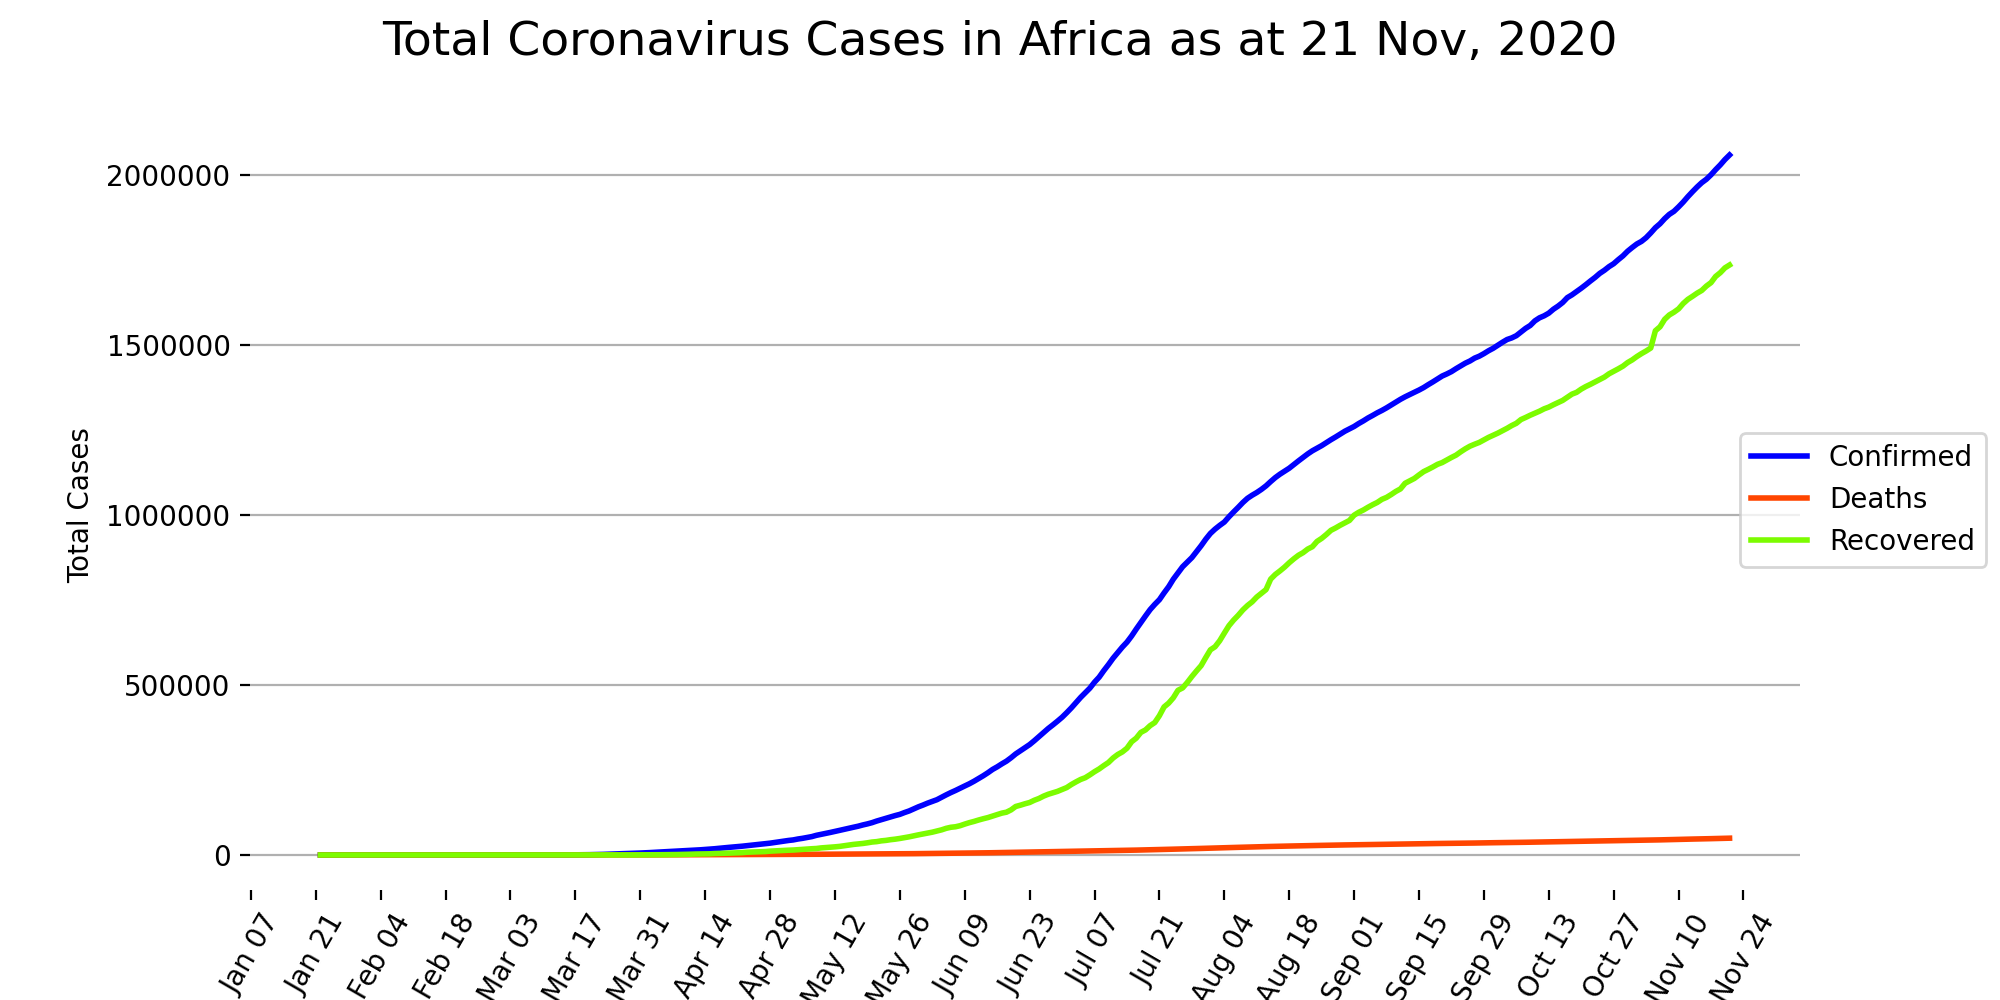
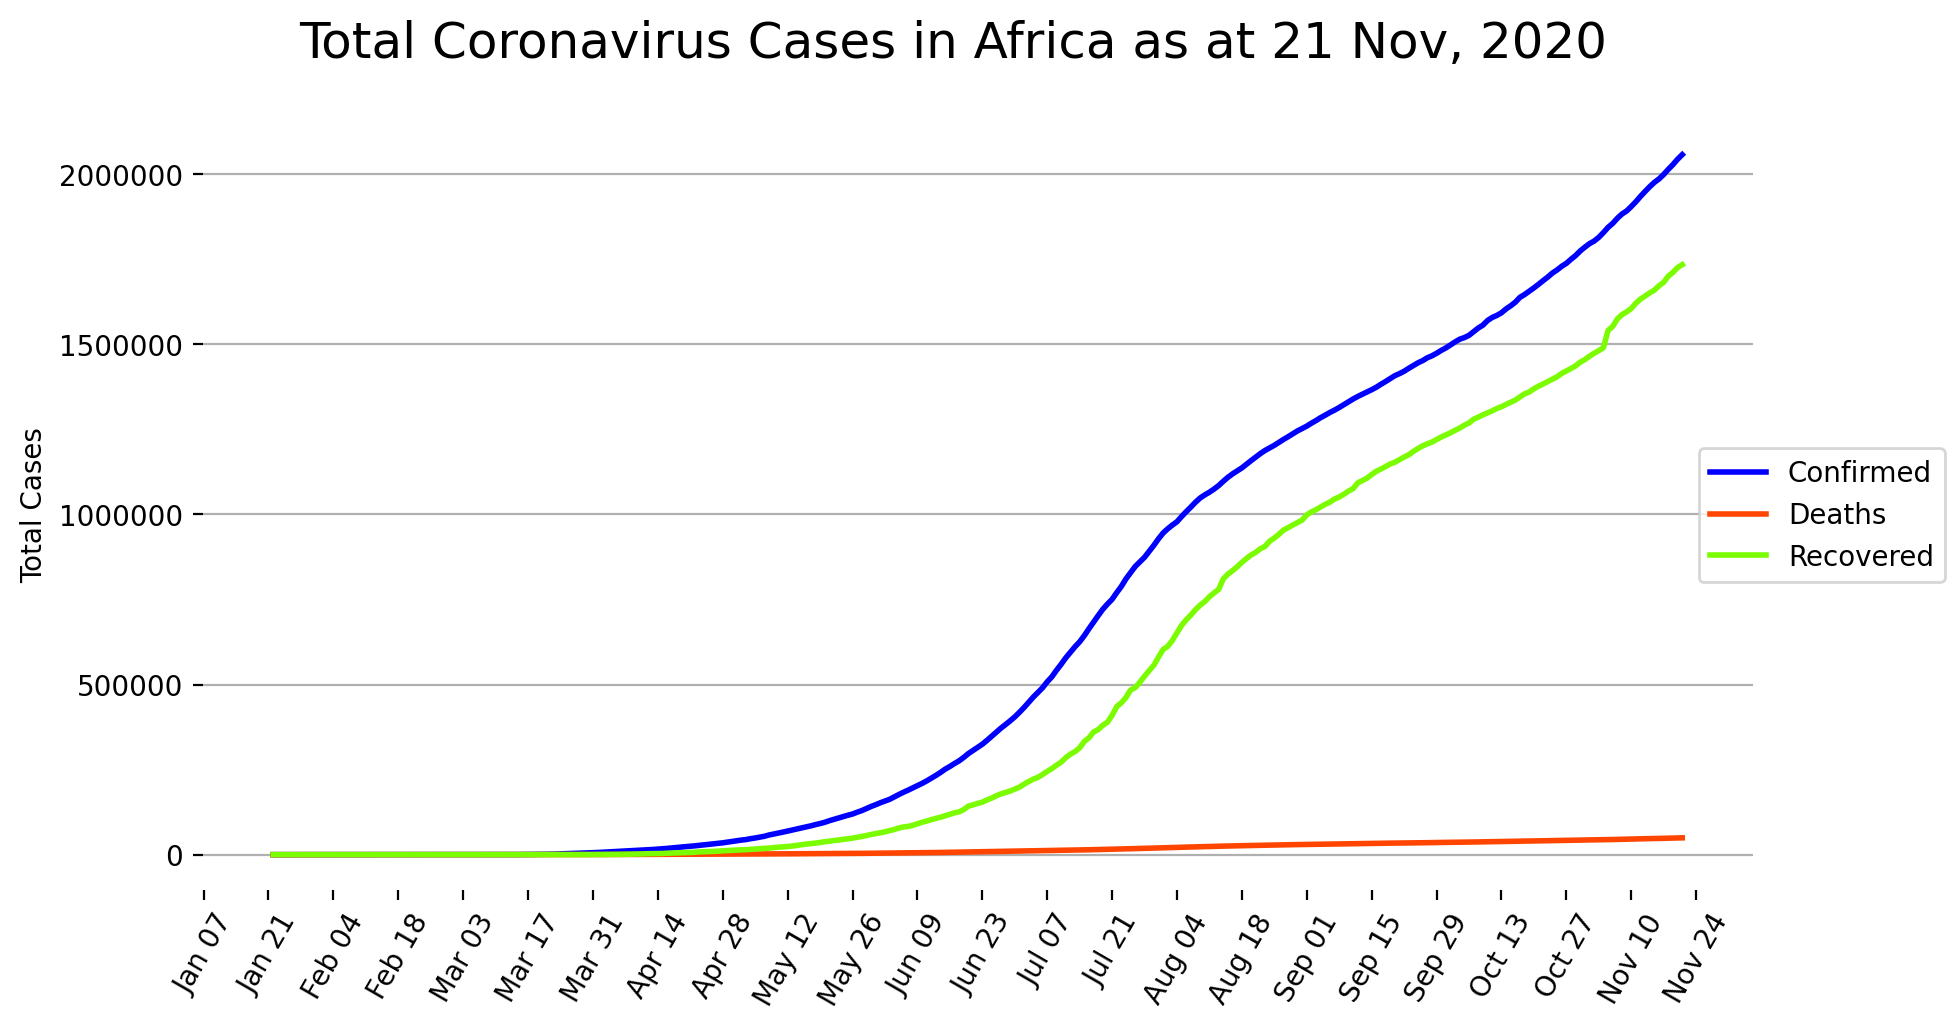
Add daily confirmed cases bar plot

diff --git a/scripts/utils.py b/scripts/utils.py
@@ -16,13 +16,29 @@ Africa = [
     "Zambia", "Zimbabwe"]
 
 
+def despine(ax, sides=['left', 'right', 'top', 'bottom']):
+    """Removes the bordering box (spines) from Matplotlib axes."""
+
+    [ax.spines[side].set_visible(False) for side in sides]
+
+
 def plot_africa_totals(data, colors=['blue', 'orangered', 'lawngreen']):
+    """Create a line plot of historical coronavirus case totals.
+
+    Parameters:
+    ----------
+    data: pd.DateFrame
+        A dataframe of historic coronavirus cases in Africa.
+    colors: str, valid marplotlib color input
+        Colors to apply to the 'confirmed', 'deaths', and 'recovered' lines
+        respectively'."""
+
     data['Date'] = data['Date'].astype('datetime64')
     data = data.groupby('Date').sum()
     latest = data.index.max().strftime('%d %h, %Y')
 
     fig = Figure(figsize=(10, 5), dpi=200)
-    fig.suptitle(f'Total Coronavirus Cases in Africa as at {latest}', size=17)
+    fig.suptitle(f'Total Coronavirus Cases in Africa as at {latest}', size=18)
     ax = fig.subplots()
 
     for idx, col in enumerate(data.columns):
@@ -35,12 +51,35 @@ def plot_africa_totals(data, colors=['blue', 'orangered', 'lawngreen']):
     ax.set_ylabel('Total Cases')
     ax.xaxis.set_major_locator(mdates.WeekdayLocator(interval=2))
     ax.xaxis.set_major_formatter(mdates.DateFormatter('%h %d'))
-
-    # remove bordering box
-    ax.spines['left'].set_visible(False)
-    ax.spines['right'].set_visible(False)
-    ax.spines['top'].set_visible(False)
-    ax.spines['bottom'].set_visible(False)
-
+    despine(ax)
     fig.legend(loc='right')
-    fig.savefig('datasets/africa_totals.png')
+    fig.savefig('datasets/africa_totals.png', bbox_inches='tight',
+                transparent=True)
+
+
+def plot_daily_confirmed(daily_data):
+    """Create a bar plot of a day's confirmed cases.
+
+    Parameters:
+    ----------
+    daily_data: pd.DataFrame
+        A dataframe of daily coronavirus cases, with confirmed cases in
+        descending order.
+    """
+    data = daily_data.set_index('Country/Region')['Confirmed'].sort_values()
+    date = daily_data['Date'].astype('datetime64').max().strftime('%h %d, %Y')
+
+    fig = Figure(figsize=(6, 12))
+    ax = fig.subplots()
+
+    data.plot.barh(x='Country/Region', ax=ax, width=0.9, color='teal')
+    ax.tick_params(size=15)
+
+    for p in ax.patches:
+        ax.annotate(f'{p.get_width():,}',
+                    xy=(p.get_x()+p.get_width(), p.get_y()+.2))
+    despine(ax)
+    ax.set_title(f'Confirmed Coronavirus Cases by Country as at {date}',
+                 size=18)
+    fig.savefig('datasets/africa_daily.png', transparent=True,
+                bbox_inches='tight')

diff --git a/scripts/african_cases_full.py b/scripts/african_cases_full.py
@@ -1,5 +1,5 @@
 import pandas as pd
-from utils import Africa, plot_africa_totals
+from utils import Africa, plot_africa_totals, plot_daily_confirmed
 
 base_url = """https://raw.githubusercontent.com/CSSEGISandData/COVID-19/\
 master/csse_covid_19_data/csse_covid_19_time_series/time_series_covid19_"""
@@ -8,38 +8,41 @@ url_dict = {
     "Deaths": f"{base_url}deaths_global.csv",
     "Recovered": f"{base_url}recovered_global.csv"
 }
+unwanted_cols = ['Province/State', 'Lat', 'Long']
 
 
 def fetch_data(name, url):
-    """Fetch data from the John Hopkins API
+    """Fetch data from the John Hopkins API.
 
     Parameters:
+    ----------
     name: str
-        A label, one of 'Confirmed', 'Recovered' or 'Deaths' as per url
+        A label; one of 'Confirmed', 'Recovered' or 'Deaths' as per url.
     url : str
-        A link to a data set
+        A link to a data set.
 
     Returns:
-    A DataFrame of the data in the supplied url
+    -------
+    A DataFrame of the data in the supplied url.
     """
-    unwanted_cols = ['Province/State', 'Lat', 'Long']
-    df = pd.read_csv(url).drop(unwanted_cols, axis=1)
-    africa_df = df[df['Country/Region'].isin(Africa)]
+    global_cases = pd.read_csv(url).drop(unwanted_cols, axis=1)
+    africa_df = global_cases[global_cases['Country/Region'].isin(Africa)]
     africa_df = africa_df.set_index('Country/Region').unstack()
     return africa_df.rename(name)
 
 
 def compile_africa_data(url_dict):
-    """Get and save the combined historic and daily Africa data
+    """Get and save the combined historic and daily Africa coronavirus data,
+    then plot basic visualisations.
 
     Parameters:
     ----------
     url_dict: dict
-        A dictionary of 'name': 'url' pairs
+        A dictionary of 'name': 'url' pairs.
     """
-    data_list = [fetch_data(name, url) for name, url in url_dict.items()]
+    cases_list = [fetch_data(name, url) for name, url in url_dict.items()]
 
-    combined = pd.concat(data_list, axis=1).reset_index()
+    combined = pd.concat(cases_list, axis=1).reset_index()
 
     africa_historic = pd.DataFrame({
         'Country/Region': combined['Country/Region'],
@@ -52,10 +55,12 @@ def compile_africa_data(url_dict):
 
     dates = africa_historic['Date']
     africa_daily = africa_historic[dates == dates.max()]
+    africa_daily = africa_daily.sort_values(by='Confirmed', ascending=False)
     filename = f'./datasets/daily/{dates.max()}_c19_african_cases.csv'
     africa_daily.to_csv(filename, index=False)
 
     plot_africa_totals(africa_historic)
+    plot_daily_confirmed(africa_daily)
 
 
 if __name__ == "__main__":

diff --git a/README.md b/README.md
@@ -4,6 +4,8 @@
 
 ![africa totals](datasets/africa_totals.png)
 
+![africa totals](datasets/africa_daily.png)
+
 [![If you would like to help or track the progress of this project](https://img.shields.io/badge/Roadmap-data--pipeline-informational)](https://github.com/4bic/covid19-in-africa/projects/1)
 
 ## Changelog
